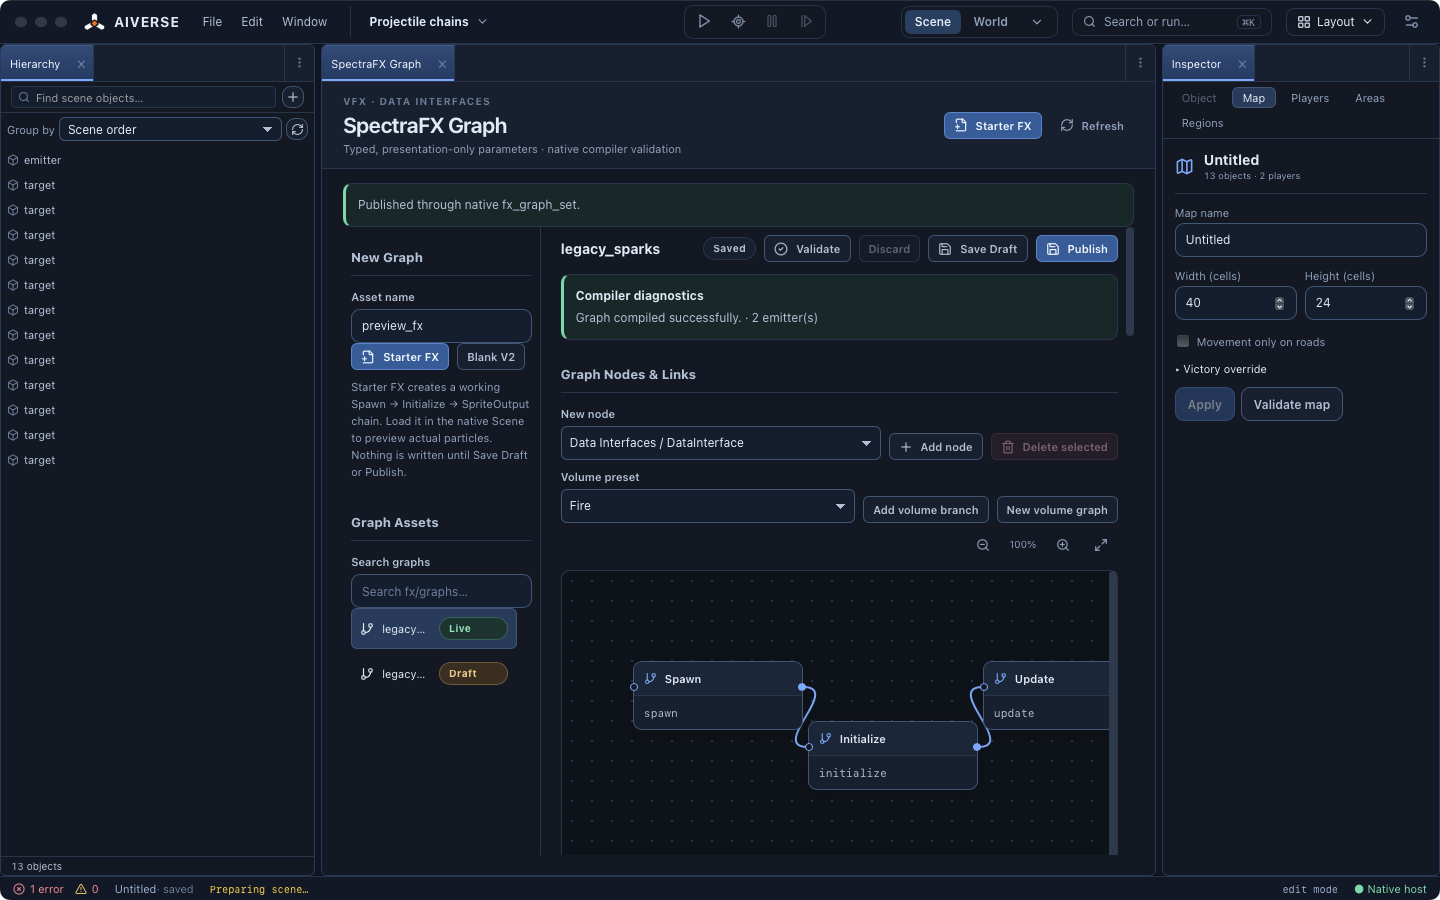
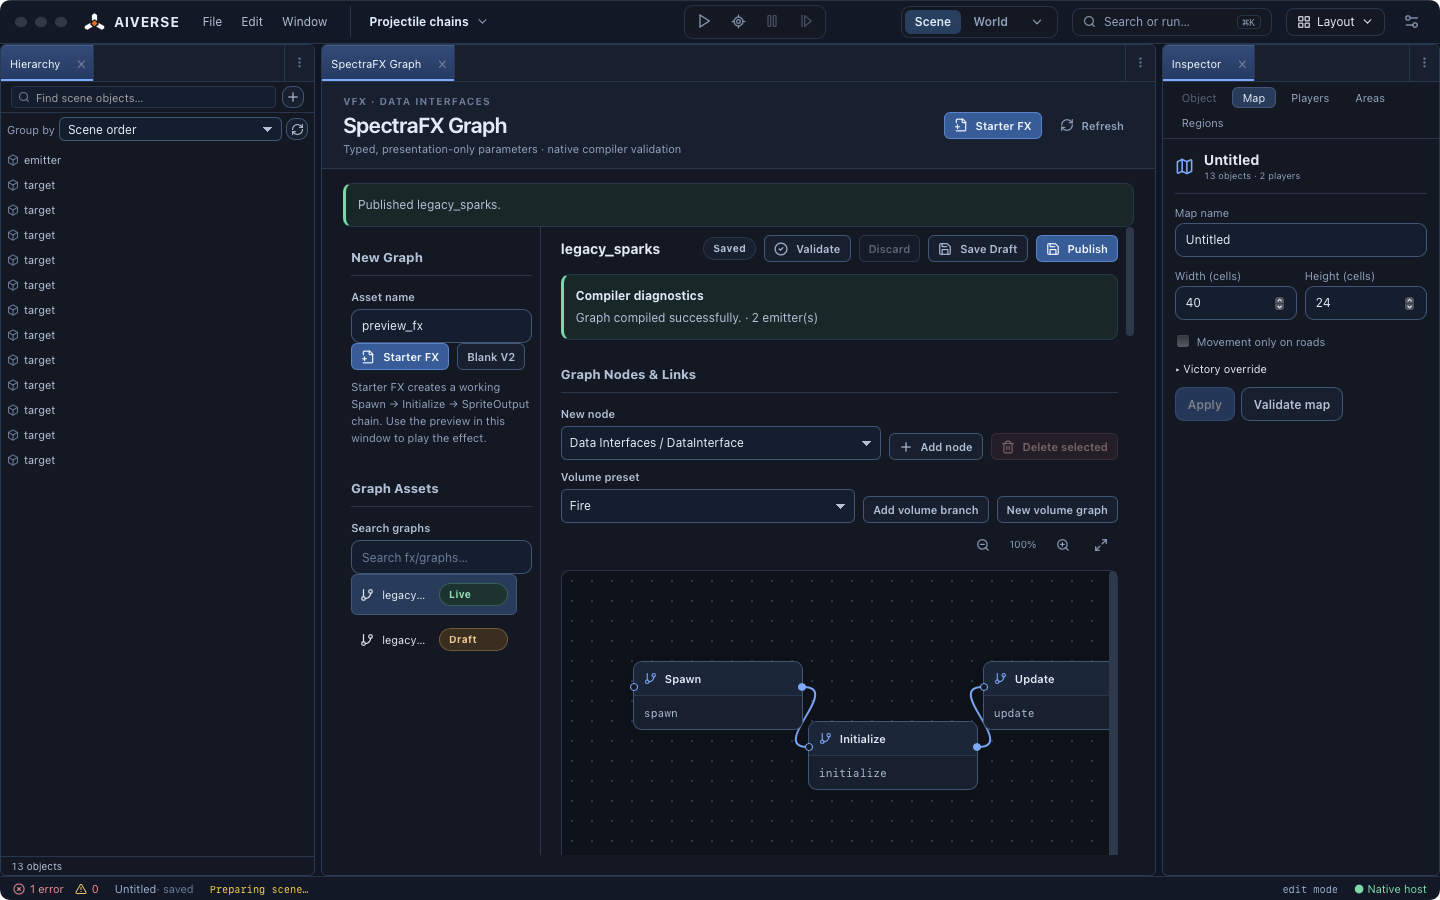
Record final named graph publication in packaged Studio

Changed region(s): [[0.2188, 0.4667, 0.375, 0.7778], [0.2812, 0.2178, 0.4062, 0.2489]]

diff --git a/docs/handoff/studio-html5/studio-only-editor.md b/docs/handoff/studio-html5/studio-only-editor.md
@@ -877,3 +877,5 @@ The order-independent repeat confirmed all nodes, outputs, parameters and links 
 The external writer with a native revision succeeded. The test then clicked Publish while the repeated asynchronous draft save still disabled it. Wait for the live enabled button before every subsequent action. Intermediate receipt docs/evidence/studio-spectra-v1-guarded.json.
 
 Graph implementation 2f7ac5eb9, verified against the committed tree. Packaged Mac upgraded/discarded/reopened the real v1 compiler fixture; both branches, positions, settings and outputs match structurally; Save Draft left the published source untouched and Publish validated two emitters. Both stale write targets rejected and retained intervening edits. See docs/evidence/studio-spectra-v1-roundtrip.json and docs/evidence/studio-project-catalog/spectrafx-migrated-graph.png. Correct the remaining starter hint directing authors to Scene and the low-level publication notice visible in the capture. Windows pending.
+
+6b57efa0af9e1616b004a2789afc1ae65f5c6375. Final Mac round trip passed with the graph name displayed after draft save and publication, including both conflict checks. Updated screenshot docs/evidence/studio-project-catalog/spectrafx-migrated-graph.png and receipt docs/evidence/studio-spectra-v1-published.json. Next transfer legacy in-memory graph undo/redo using existing DraftHistory, covering topology and value edits across a save point. Windows and merged-tree Mac acceptance remain pending.
